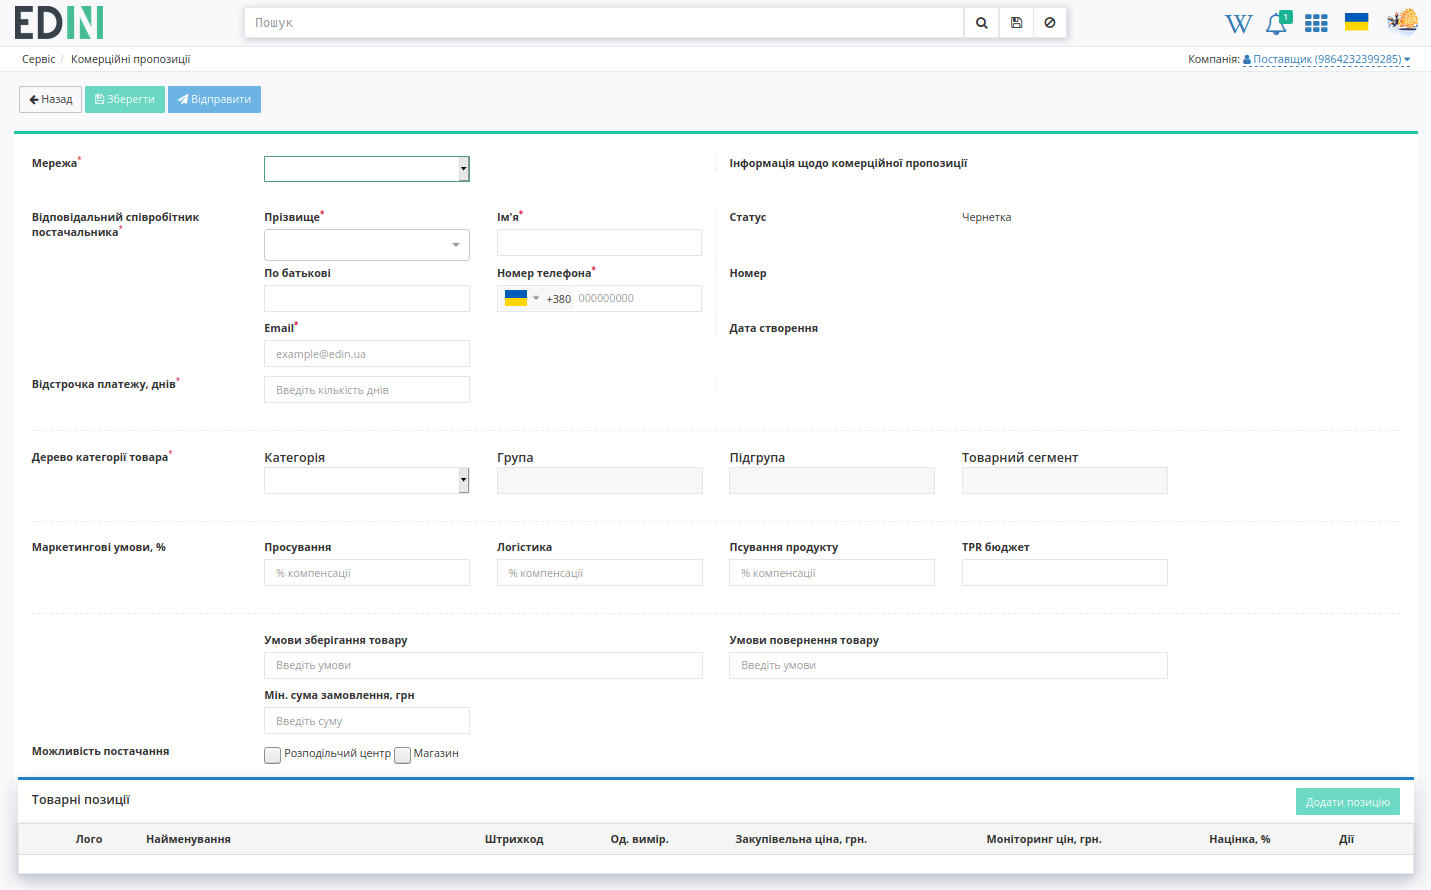
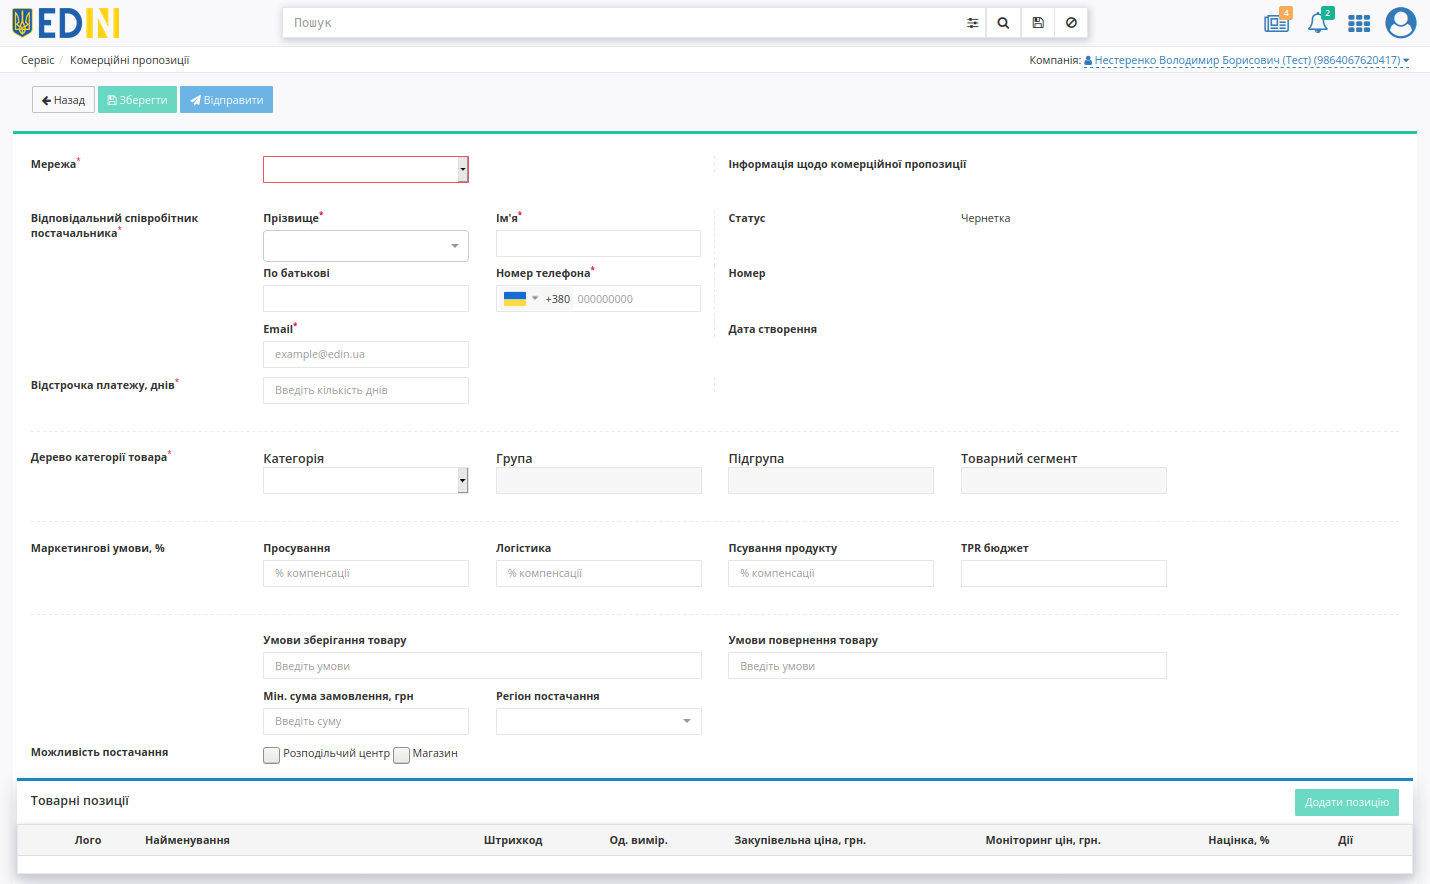
DELIVERY_REGION

diff --git a/docs/Commercial_offers/Instructions/Commercial_offers_postachalnik.rst b/docs/Commercial_offers/Instructions/Commercial_offers_postachalnik.rst
@@ -116,6 +116,14 @@
 * кількість днів відстрочки платежу;
 * послідовно вказати **"Категорію"** -> **"Групу"** -> **"Підгрупу"** -> **"Товарний сегмент"**. 
 
+.. image:: pics_Commercial_offers/Commercial_offers_067.png
+   :align: center
+
+Дані поля "Регіон постачання" обираються зі списку (при введенні назви області України список автоматично фільтується):
+
+.. image:: pics_Commercial_offers/Commercial_offers_068.gif
+   :align: center
+
 Після того, як чернетка комерційної пропозиції буде збережена можливо **"Додати позицію"**, заповнити форму **"Інфомації про товар"** (обов'язкові поля позначні червоною зірочкою :red:`*`)  та **"Додати товар"** до комерційної пропозицї:
 
 .. image:: pics_Commercial_offers/Commercial_offers_030.png
